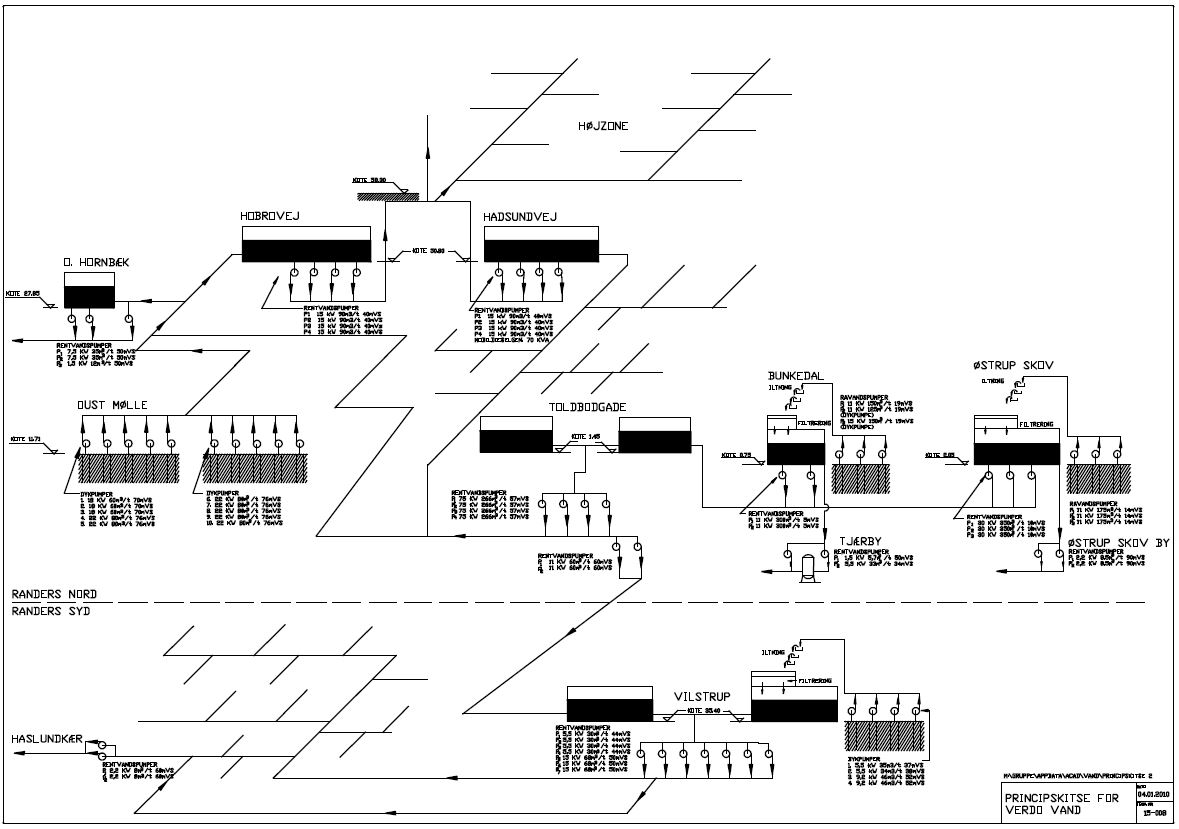
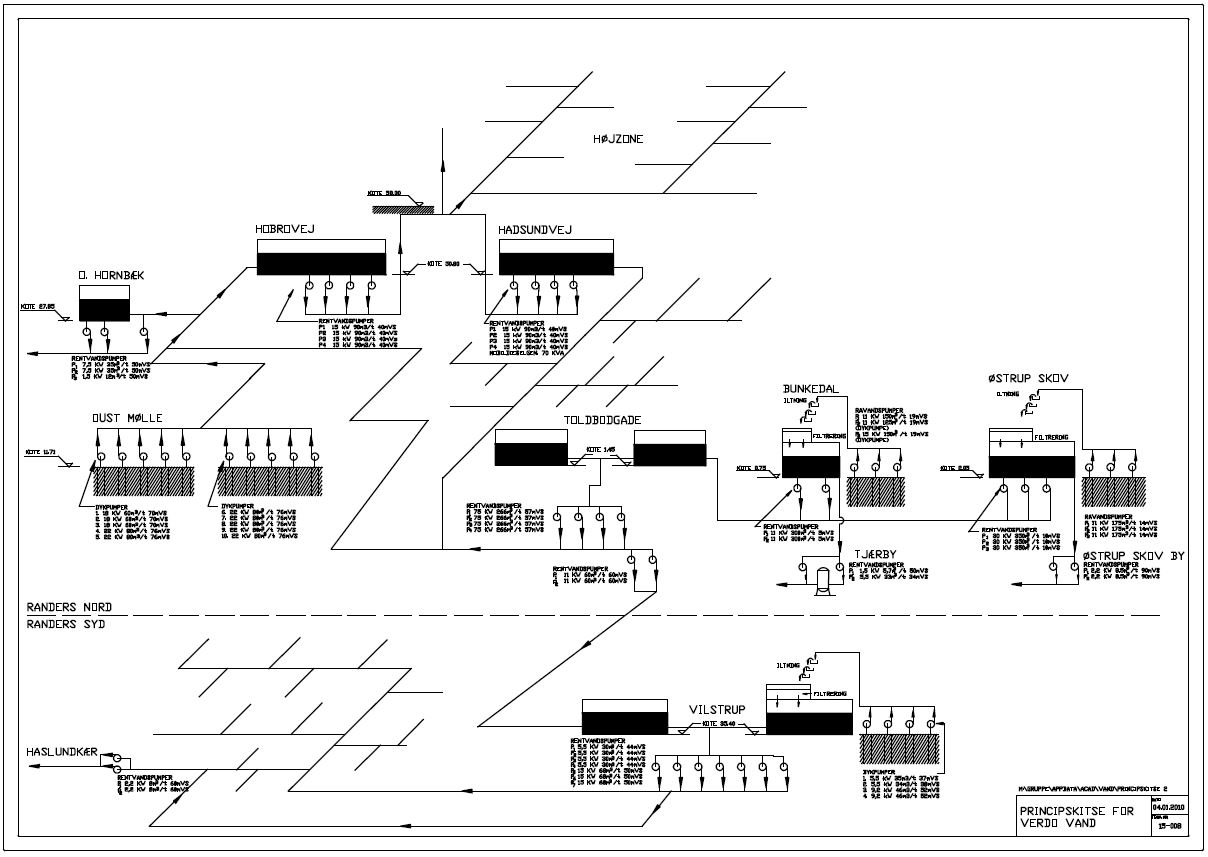
NN part 3 + appendix

diff --git a/report/design/example1.tex b/report/design/example1.tex
@@ -265,7 +265,7 @@ Expressing the distance $x$, the RBF can be given such that
 \phi(u,\mu_k, \psi_k) = exp \Big(-\frac{||u-\mu_k||^2}{2\psi_k^2}\Big), 
 \end{equation}
 
-where $\mu_k \in \: \mathbb{R}^{p}$ determines the center of the RBFs, $\psi_k \in \: \mathbb{R}^{p}$ is the standard deviation of the Gaussian, i.e the width parameter and $||\cdot||$ is the Euclidean norm. In a NN, RBFs overlap each other to capture the information from the input data, and the width parameters $\psi_k$ control the amount of overlapping basis functions. An example is shown in \figref{fig:rbf_pram}, where the influence of these parameters is illustrated on one RBF neuron, with a single input $u$. 
+where $\mu_k \in \: \mathbb{R}^{M}$ determines the center of the RBFs, $\psi_k \in \: \mathbb{R}^{M}$ is the standard deviation of the Gaussian, i.e the width parameter and $||\cdot||$ is the Euclidean norm. In a NN, RBFs overlap each other to capture the information from the input data, and the width parameters $\psi_k$ control the amount of overlapping basis functions. An example is shown in \figref{fig:rbf_pram}, where the influence of these parameters is illustrated on one RBF neuron, with a single input $u$. 
 
  %RBFs with different parameters
 \begin{figure}[H]
@@ -300,23 +300,48 @@ In \figref{fig:rbf_interpol}, the basis functions are shown on the left, while t
 
 The process of estimating the basis functions $\phi_i$ consists of two problems. One task is to determine a set of $M$ RBFs and then estimate the output weights $w_i$ and bias parameter $w_0$. Therefore, the RBF network parameters are generally determined in a two-stage procedure, while in other type of networks the parameters are determined simultaneously by non-linear optimization\cite{RBF_article}. As the output layer of RBF networks linearly combines the Gaussian basis functions, most strategies determine the parameters $\mu$ and $\psi$ of the hidden layer, and then the output layer weighs $w$ by using some linear optimization methods, such as Least Squares(LS) methods. This two-step procedure allows to vary only the weights between the hidden and output layer of the network during the training. 
 
-As the first step, the parameters of the Gaussian basis functions, $\mu$ and $\psi$ are discussed. 
+As the first step, the parameters of the Gaussian basis functions, $\mu$ and $\psi$ are discussed and then the calculation of the weight parameters is explained. 
 
 \subsection{Determination of the hidden layer parameters}
 \label{determination_hidden_layer}
 
 As discussed in \secref{RBF_training}, the parameters $\mu$ and $\psi$ of the neurons are not determined through optimization. Instead, one approach is to determine these parameters only by using the input data set $u$. The most commonly applied approach for such tasks is the application of clustering techniques \cite{nelles2013nonlinear}. The clustering of the input data allows to determine the center $\mu$ of the basis functions, according to the distribution of the input data set. Thus, many RBFs are placed in regions where data is dense, and few RBFs are placed in regions where data is less dense.  
 
+The most commonly applied clustering technique in RBF networks is the k-means algorithm \cite{nelles2013nonlinear}. A cluster in the input data set can be defined as a group of data that are more similar to each other than data belonging to other clusters. Initially, the values for the $M$ number of center points is chosen\footnote{The $M$ number of center points of the clusters correspond to the number of basis functions, thus the number of neurons.}. This can be done by choosing randomly $M$ different data samples. Then the algorithm assigns all data samples to their nearest cluster center. When the $M$ clusters are separated, a new mean is calculated for each cluster. Each cluster center is set to the mean of its cluster such that
+
+\begin{equation}
+\label{cluster_center}
+c_k = \frac{1}{N_k} \sum_{i \in \mathcal{A}_k}  u_i,
+\end{equation}
+
+where $i$ runs over the $N_k$ data samples that belong to cluster $k$, which are in the set $\mathcal{A}_k$ and $N_k$ is the number of elements in the set $\mathcal{A}_k$. Eventually, the algorithm stops when the center values $c_k$ do not change in the further iteration steps. The $c_k$ center parameters of the clusters then define the centers $\mu_k$ of the activation functions. Therefore, the k-means algorithm determines the centers $\mu$, in an unsupervised manner, meaning that the RBFs are not automatically moving to the regions where they are required for a good approximation of the system. However, if the number of RBF neurons is being sufficient enough, the NN can give a good approximation of the process. Compared to the supervised learning techniques, where the basis function parameters are to be optimized, the increased number of neurons does not cause increased training time, since both the k-means and LS algorithms are very fast \cite{nelles2013nonlinear}. 
+
+After the clustering is completed, and the $c_k$ cluster centers are assigned to the $\mu$ basis function centers, the width parameters $\psi$ can be determined by the k-nearest rule. This method assigns each RBF a width parameter proportional to the average distance between its center and the input data set in the corresponding cluster such that 
+
+ \begin{equation}
+\label{cluster center}
+\psi^2 = \frac{1}{N_k} \sum_{i \in \mathcal{A}_k}  ||u_i - \mu_k||^2.
+\end{equation}
+
 \subsection{Determination of the weights}
 \label{determination_weights} 
 
-abcd
+(In progress)
 
 \section{RBFNN model of the Multi-inlet,Multi-WT system}
 \label{RBFNN_model_multi_inlet_multi_WT_sys} 
 
-abcd
+As the tools are now given for identification, the interpretation of the Multi-inlet, Multi-WT system in the context of NNs is considered. In order to formulate a NN structure, let us first recall the system equations, described in \secref{model_structure_of_the_multi_inlet_multi_WT_system}. The corresponding output and state equations are shown in \eqref{identification_model11}. 
 
-\section{NN based identification on an example}
+\begin{equation}
+\begin{cases}
+  \label{identification_model11}
+    \tilde{y}  = \tilde{f}_1(\bar{d}_{\mathcal{K}}, \sigma, \hat{h}_t )\\
+  \hat{p}_{k+1} = \tilde{f}_2(\bar{d}_{\mathcal{K},k}, \sigma_k) + a_1 \hat{p}_k + a_2 \hat{h} .
+  \end{cases}
+\end{equation} 
+
+\section{NN based identification on an example network}
 \label{NN_based_example} 
 
+(in progress)

diff --git a/report/appendix/cad_drawing.tex b/report/appendix/cad_drawing.tex
@@ -1,0 +1,19 @@
+\begin{landscape}
+
+\chapter{Schematic drawing of the Randers WSS}
+\label{schematic_WSS}
+
+\thispagestyle{empty}
+\vspace{-7mm}
+%illustration of elevation profile between HZ and LZ
+\begin{figure}[H]
+\centering
+\includegraphics[width=1.27\textwidth]{report/pictures/cad_drawing_1}
+\vspace{-3mm}
+\caption{Schematic drawing of the WSS in Randers.}
+\label{fig:schematic_CAD}
+\end{figure}
+
+ \vfill
+ \raisebox{0pt}{\makebox[\linewidth]{\thepage}}
+\end{landscape}

diff --git a/report/appendix/elevation_profile.tex b/report/appendix/elevation_profile.tex
@@ -5,10 +5,12 @@
 \label{elevation_profile_of_randers}
 \thispagestyle{empty}
 
+\vspace{-6mm}
+
 %illustration of elevation profile between HZ and LZ
 \begin{figure}[H]
 \centering
-\includegraphics[width=1.18\textwidth]{report/pictures/elev_profile}
+\includegraphics[width=1.27\textwidth]{report/pictures/elev_profile}
 \caption{Elevation profile along the High and Low Zones 1.}
 \label{fig:elev_profile}
 \end{figure}

diff --git a/report/appendix/appendix_main.tex b/report/appendix/appendix_main.tex
@@ -3,6 +3,7 @@
 \begin{appendices}
 
 \input{report/appendix/elevation_profile}
+\input{report/appendix/cad_drawing}
 \input{report/appendix/Assumptions}
 \input{report/appendix/System_description}
 %\input{report/appendix/simple_example2}

diff --git a/Setup_files/preamble.tex b/Setup_files/preamble.tex
@@ -364,4 +364,11 @@
 
  \renewcommand{\familydefault}{\rmdefault}
 
+\usepackage[explicit]{titlesec}
 
+\newcommand*\Hide{%
+\titleformat{\chapter}[display]
+  {}{}{0pt}{\Huge}
+\titleformat{\part}
+  {}{}{0pt}{}
+}
